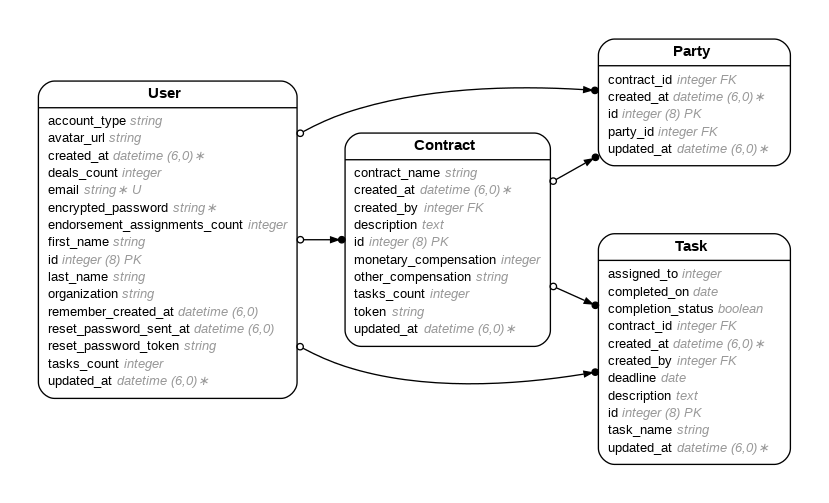
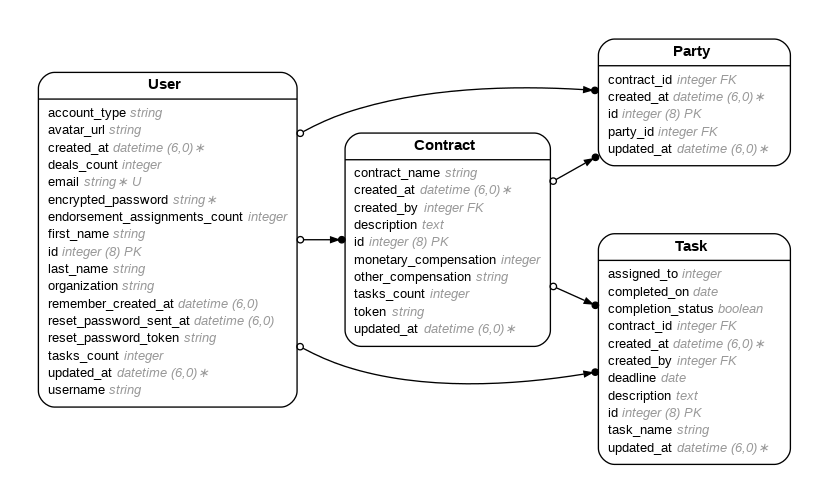
sign in page

Changed region(s): [[0.0302, 0.1193, 0.3619, 0.835]]

diff --git a/app/models/user.rb b/app/models/user.rb
@@ -16,6 +16,7 @@
 #  reset_password_sent_at        :datetime
 #  reset_password_token          :string
 #  tasks_count                   :integer
+#  username                      :string
 #  created_at                    :datetime         not null
 #  updated_at                    :datetime         not null
 #
@@ -34,5 +35,23 @@ class User < ApplicationRecord
   has_many  :deals, class_name: "Contract", foreign_key: "created_by", dependent: :destroy
   has_many  :tasks, class_name: "Task", foreign_key: "created_by", dependent: :destroy
   has_many  :endorsement_assignments, class_name: "Party", foreign_key: "party_id", dependent: :nullify 
+
+   # ensure it starts with @ and only letters, numbers, underscores
+   validates :username,
+             presence:   true,
+             uniqueness: { case_sensitive: false },
+             format:     {
+               with:    /\A@[A-Za-z0-9_]+\z/,
+               message: "must start with @ and only include letters, numbers, and underscores"
+             }
+
+   before_validation :prefix_username_with_at
+
+   private
+
+   def prefix_username_with_at
+     return if username.blank? || username.start_with?("@")
+     self.username = "@#{username}"
+   end
 
 end

diff --git a/db/schema.rb b/db/schema.rb
@@ -10,7 +10,7 @@
 #
 # It's strongly recommended that you check this file into your version control system.
 
-ActiveRecord::Schema[7.1].define(version: 2025_05_21_203422) do
+ActiveRecord::Schema[7.1].define(version: 2025_05_21_210550) do
   # These are extensions that must be enabled in order to support this database
   enable_extension "plpgsql"
 
@@ -62,6 +62,7 @@ ActiveRecord::Schema[7.1].define(version: 2025_05_21_203422) do
     t.integer "endorsement_assignments_count"
     t.datetime "created_at", null: false
     t.datetime "updated_at", null: false
+    t.string "username"
     t.index ["email"], name: "index_users_on_email", unique: true
     t.index ["reset_password_token"], name: "index_users_on_reset_password_token", unique: true
   end

diff --git a/app/controllers/application_controller.rb b/app/controllers/application_controller.rb
@@ -1,3 +1,32 @@
 class ApplicationController < ActionController::Base
   skip_forgery_protection
-end
+
+  before_action :configure_permitted_parameters, if: :devise_controller?
+
+   protected
+
+   def configure_permitted_parameters
+     devise_parameter_sanitizer.permit(
+       :sign_up,
+       keys: [
+         :username,
+         :first_name,
+         :last_name,
+         :account_type,
+         :organization,
+         :avatar_url
+       ]
+     )
+     devise_parameter_sanitizer.permit(
+       :account_update,
+       keys: [
+         :username,
+         :first_name,
+         :last_name,
+         :account_type,
+         :organization,
+         :avatar_url
+       ]
+     )
+   end
+ end

diff --git a/db/migrate/20250521210550_add_username_to_users.rb b/db/migrate/20250521210550_add_username_to_users.rb
@@ -1,0 +1,5 @@
+class AddUsernameToUsers < ActiveRecord::Migration[7.1]
+  def change
+    add_column :users, :username, :string
+  end
+end

diff --git a/db/migrate/20250521210433_add_usernameto_users.rb b/db/migrate/20250521210433_add_usernameto_users.rb
@@ -1,0 +1,4 @@
+class AddUsernametoUsers < ActiveRecord::Migration[7.1]
+  def change
+  end
+end
